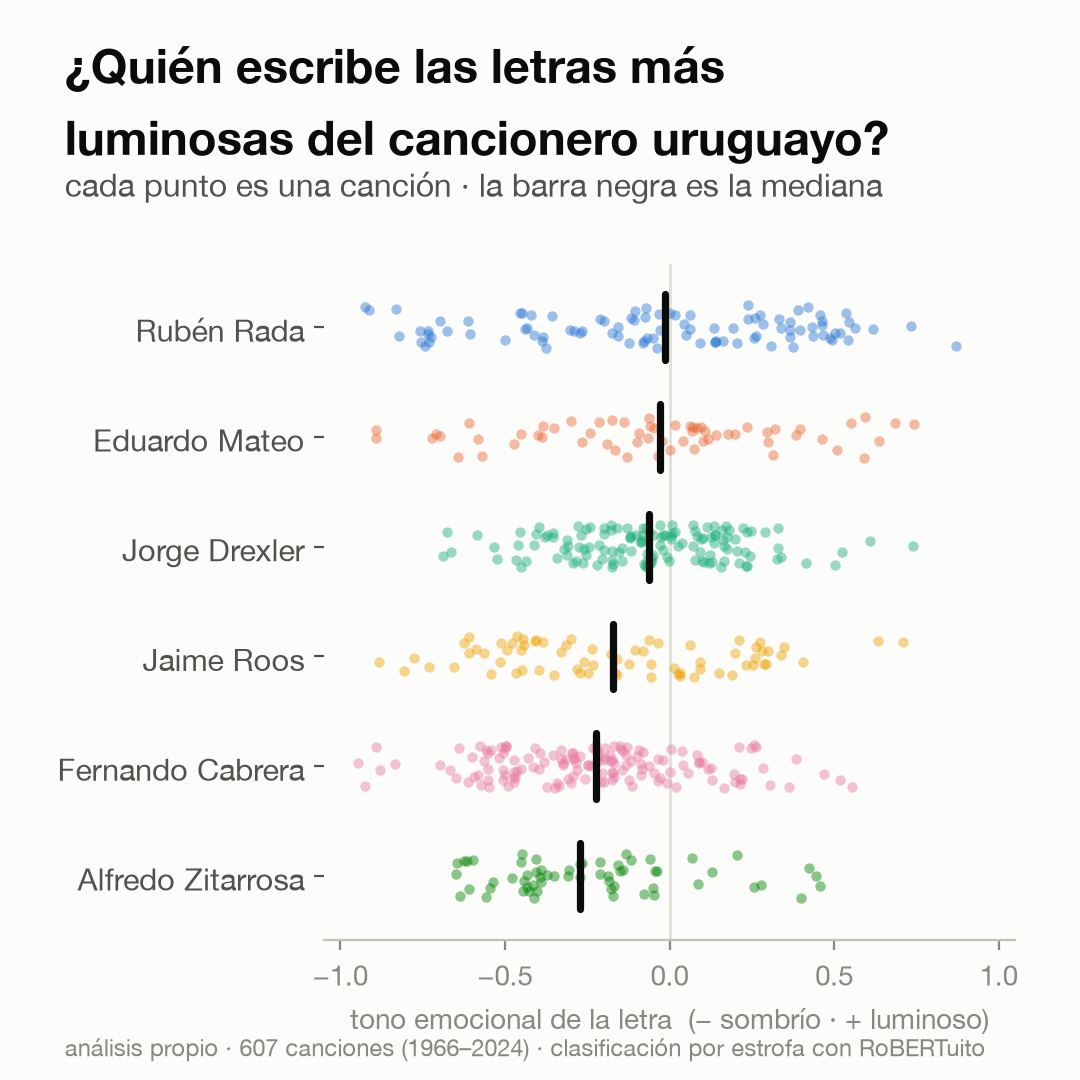
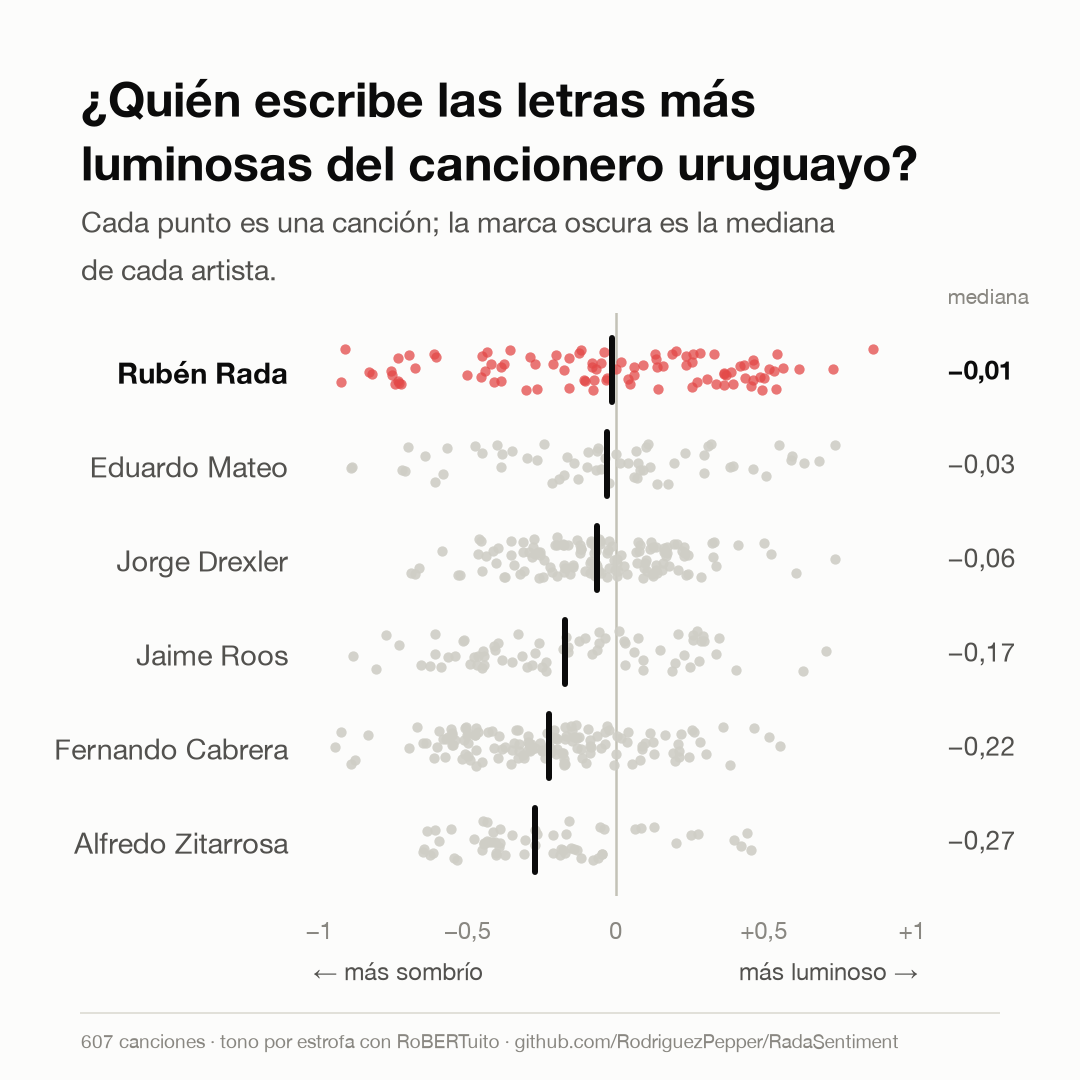
Rediseño de las gráficas y corrección de las estadísticas de lenguajes

diff --git a/src/viz/linkedin_png.py b/src/viz/linkedin_png.py
@@ -1,7 +1,11 @@
-"""Gráficas estáticas para LinkedIn (PNG 1080×1080 aprox, 200 dpi).
+"""Gráficas estáticas para LinkedIn y el README (PNG 1080×1080).
 
-Tres piezas: distribución de tono por artista, arco temporal de Rada
-(énfasis: Rada en color, el resto en gris), y proporción de alegría.
+Tres piezas con el mismo sistema visual: Rada en azul, los otros cinco en
+gris, para que en las tres se lea la misma historia.
+
+  01_tono.png     distribución del tono por canción, artista por artista
+  02_arco.png     tono mediano de Rada por década contra el resto
+  03_alegria.png  proporción de estrofas cuya emoción dominante es alegría
 
 Salida: informe/linkedin/0{1,2,3}_*.png
 Uso:    .venv/bin/python src/viz/linkedin_png.py
@@ -15,6 +19,7 @@ matplotlib.use("Agg")
 import matplotlib.pyplot as plt
 import numpy as np
 import pandas as pd
+from matplotlib.patches import FancyBboxPatch
 
 ROOT = Path(__file__).resolve().parents[2]
 DEST = ROOT / "informe/linkedin"
@@ -24,106 +29,172 @@ NOMBRES = {"ruben_rada": "Rubén Rada", "eduardo_mateo": "Eduardo Mateo",
            "fernando_cabrera": "Fernando Cabrera", "alfredo_zitarrosa": "Alfredo Zitarrosa"}
 ORDEN = ["ruben_rada", "eduardo_mateo", "jorge_drexler",
          "jaime_roos", "fernando_cabrera", "alfredo_zitarrosa"]
-COLOR = {"ruben_rada": "#2a78d6", "eduardo_mateo": "#eb6834",
-         "jorge_drexler": "#1baf7a", "jaime_roos": "#eda100",
-         "fernando_cabrera": "#e87ba4", "alfredo_zitarrosa": "#008300"}
-SURFACE, INK, INK2, MUTED, GRID, BASE = "#fcfcfb", "#0b0b0b", "#52514e", "#898781", "#e1e0d9", "#c3c2b7"
-GRIS = "#c3c2b7"
+
+SURFACE = "#fcfcfb"
+INK, INK2, MUTED = "#0b0b0b", "#52514e", "#898781"
+GRID, BASE = "#e1e0d9", "#c3c2b7"
+RADA = "#e34948"
+OTROS = "#cfcec6"
+
+LADO, DPI = 6.0, 180  # 1080 px
+PIE = "607 canciones · tono por estrofa con RoBERTuito · github.com/RodriguezPepper/RadaSentiment"
 
 plt.rcParams.update({
-    "font.family": ["Helvetica Neue", "Arial", "DejaVu Sans"],
+    "font.family": ["Helvetica Neue", "Helvetica", "Arial", "DejaVu Sans"],
     "figure.facecolor": SURFACE, "axes.facecolor": SURFACE,
-    "axes.edgecolor": BASE, "axes.linewidth": 0.8,
+    "axes.edgecolor": BASE, "axes.linewidth": 1,
     "xtick.color": MUTED, "ytick.color": INK2,
-    "axes.grid": False, "svg.fonttype": "none",
+    "xtick.major.size": 0, "ytick.major.size": 0,
+    "xtick.major.pad": 8, "ytick.major.pad": 10,
+    "axes.grid": False, "axes.axisbelow": True,
+    "axes.formatter.use_locale": False,
 })
 
-PIE = "análisis propio · 607 canciones (1966–2024) · clasificación por estrofa con RoBERTuito"
+
+def coma(x, dec=2, signo=True):
+    """Formato rioplatense: coma decimal y signo menos tipográfico."""
+    s = f"{x:+.{dec}f}" if signo else f"{x:.{dec}f}"
+    return s.replace("-", "−").replace(".", ",")
 
 
-def marco(fig, titulo, subtitulo):
+def lienzo(titulo, subtitulo, ax_rect):
+    fig = plt.figure(figsize=(LADO, LADO), dpi=DPI)
+    x0 = 0.075
+    fig.text(x0, 0.935, titulo, fontsize=19, fontweight="bold", color=INK,
+             va="top", linespacing=1.15)
     lineas = titulo.count("\n") + 1
-    fig.text(0.06, 0.97, titulo, fontsize=17, fontweight="bold", color=INK,
-             va="top", linespacing=1.3)
-    y_sub = 0.97 - 0.062 * lineas
-    fig.text(0.06, y_sub, subtitulo, fontsize=11.5, color=INK2, va="top")
-    fig.subplots_adjust(top=y_sub - 0.09)
-    fig.text(0.06, 0.022, PIE, fontsize=8.5, color=MUTED)
+    fig.text(x0, 0.935 - 0.052 * lineas - 0.018, subtitulo, fontsize=11.5,
+             color=INK2, va="top", linespacing=1.35)
+    fig.add_artist(plt.Line2D([x0, 1 - x0], [0.062, 0.062], color=GRID, lw=0.8))
+    fig.text(x0, 0.036, PIE, fontsize=7.6, color=MUTED, va="center")
+    ax = fig.add_axes(ax_rect)
+    for s in ax.spines.values():
+        s.set_visible(False)
+    return fig, ax
 
 
 def g1_distribucion(d):
-    fig, ax = plt.subplots(figsize=(5.4, 5.4), dpi=200)
-    fig.subplots_adjust(top=0.78, bottom=0.13, left=0.30, right=0.94)
+    fig, ax = lienzo("¿Quién escribe las letras más\nluminosas del cancionero uruguayo?",
+                     "Cada punto es una canción; la marca oscura es la mediana\nde cada artista.",
+                     [0.29, 0.17, 0.56, 0.54])
     rng = np.random.default_rng(7)
-    for i, f in enumerate(reversed(ORDEN)):
+    n = len(ORDEN)
+    for i, f in enumerate(ORDEN):
+        y0 = n - 1 - i
         g = d[d.ficha == f]
-        y = i + rng.uniform(-0.2, 0.2, len(g))
-        ax.scatter(g.valencia, y, s=14, color=COLOR[f], alpha=0.45, lw=0)
+        es_rada = f == "ruben_rada"
+        y = y0 + rng.uniform(-0.22, 0.22, len(g))
+        ax.scatter(g.valencia, y, s=17, color=RADA if es_rada else OTROS,
+                   alpha=0.75 if es_rada else 0.9, lw=0, zorder=2)
         med = g.valencia.median()
-        ax.plot([med, med], [i - 0.3, i + 0.3], color=INK, lw=2.6, solid_capstyle="round")
-    ax.axvline(0, color=GRID, lw=1, zorder=0)
-    ax.set_yticks(range(len(ORDEN)))
-    ax.set_yticklabels([NOMBRES[f] for f in reversed(ORDEN)], fontsize=11)
-    ax.set_xlim(-1.05, 1.05)
-    ax.set_xlabel("tono emocional de la letra  (− sombrío · + luminoso)",
-                  fontsize=10, color=MUTED)
-    for s in ("top", "right", "left"):
-        ax.spines[s].set_visible(False)
-    marco(fig, "¿Quién escribe las letras más\nluminosas del cancionero uruguayo?",
-          "cada punto es una canción · la barra negra es la mediana")
-    fig.savefig(DEST / "01_tono.png")
+        ax.plot([med, med], [y0 - 0.34, y0 + 0.34], color=INK, lw=2.4,
+                solid_capstyle="round", zorder=4)
+        ax.text(1.12, y0, coma(med), ha="left", va="center", fontsize=10.5,
+                color=INK if es_rada else INK2,
+                fontweight="bold" if es_rada else "normal")
+    ax.text(1.12, n - 0.35, "mediana", ha="left", va="bottom", fontsize=8.5, color=MUTED)
+    ax.axvline(0, color=BASE, lw=1, zorder=1)
+    ax.set_yticks(range(n))
+    ax.set_yticklabels([NOMBRES[f] for f in reversed(ORDEN)], fontsize=11.5)
+    ax.get_yticklabels()[-1].set_fontweight("bold")
+    ax.get_yticklabels()[-1].set_color(INK)
+    ax.set_xlim(-1.02, 1.02)
+    ax.set_ylim(-0.6, n - 0.4)
+    ax.set_xticks([-1, -0.5, 0, 0.5, 1])
+    ax.set_xticklabels(["−1", "−0,5", "0", "+0,5", "+1"], fontsize=9.5)
+    ax.text(-1.02, -1.25, "← más sombrío", ha="left", va="top", fontsize=9.5, color=INK2,
+            transform=ax.transData)
+    ax.text(1.02, -1.25, "más luminoso →", ha="right", va="top", fontsize=9.5, color=INK2,
+            transform=ax.transData)
+    fig.savefig(DEST / "01_tono.png", facecolor=SURFACE)
     plt.close(fig)
 
 
 def g2_arco(d):
-    fig, ax = plt.subplots(figsize=(5.4, 5.4), dpi=200)
-    fig.subplots_adjust(top=0.78, bottom=0.13, left=0.13, right=0.90)
-    for f in ORDEN:
+    fig, ax = lienzo("Del Rada sombrío de los 70\nal luminoso de los 2010",
+                     "Tono mediano de sus letras por década. En gris, los otros\ncinco cantautores.",
+                     [0.135, 0.15, 0.76, 0.55])
+    for f in ORDEN[1:]:
         g = d[d.ficha == f].dropna(subset=["decada"])
         if f == "eduardo_mateo":
             g = g[g.decada <= 1990]
         cel = g.groupby("decada").valencia.agg(["median", "size"])
         cel = cel[cel["size"] >= 5]
-        if f == "ruben_rada":
-            ax.plot(cel.index, cel["median"], color=COLOR[f], lw=3, zorder=5,
-                    marker="o", ms=7, mec=SURFACE, mew=1.2)
-            ax.annotate("Rada", (cel.index[-1], cel["median"].iloc[-1]),
-                        xytext=(8, 4), textcoords="offset points",
-                        color=COLOR[f], fontsize=12, fontweight="bold")
-        else:
-            ax.plot(cel.index, cel["median"], color=GRIS, lw=1.4, zorder=2)
-    ax.axhline(0, color=BASE, lw=1, zorder=0)
+        ax.plot(cel.index, cel["median"], color=OTROS, lw=1.6, zorder=2,
+                solid_capstyle="round", solid_joinstyle="round")
+
+    g = d[d.ficha == "ruben_rada"].dropna(subset=["decada"])
+    cel = g.groupby("decada").valencia.agg(["median", "size"])
+    cel = cel[cel["size"] >= 5]["median"]
+    ax.plot(cel.index, cel.values, color=RADA, lw=3, zorder=5,
+            solid_capstyle="round", solid_joinstyle="round")
+    ax.scatter(cel.index, cel.values, s=70, color=RADA, edgecolor=SURFACE,
+               linewidth=2, zorder=6)
+
+    notas = {1970: ("los 70", (-12, 0)), 1990: ("el regreso", (0, 16)),
+             2010: ("los 2010", (0, 16))}
+    for dec, (txt, off) in notas.items():
+        v = cel[dec]
+        ax.annotate(f"{txt}\n{coma(v)}", (dec, v), xytext=off, textcoords="offset points",
+                    ha="right" if off[0] < 0 else "center",
+                    va="center" if off[1] == 0 else "bottom", fontsize=10,
+                    color=INK, linespacing=1.25,
+                    fontweight="bold" if dec != 1990 else "normal")
+    ax.annotate("Rada", (cel.index[-1], cel.values[-1]), xytext=(10, 0),
+                textcoords="offset points", va="center", fontsize=11,
+                fontweight="bold", color=INK)
+
+    for y in (-0.4, -0.2, 0.2, 0.4):
+        ax.axhline(y, color=GRID, lw=0.8, zorder=0)
+    ax.axhline(0, color=BASE, lw=1.2, zorder=1)
+    ax.set_ylim(-0.48, 0.48)
+    ax.set_yticks([-0.4, -0.2, 0, 0.2, 0.4])
+    ax.set_yticklabels(["−0,4", "−0,2", "0", "+0,2", "+0,4"], fontsize=9.5, color=MUTED)
+    ax.set_xlim(1955, 2027)
     ax.set_xticks([1960, 1970, 1980, 1990, 2000, 2010, 2020])
     ax.set_xticklabels(["'60", "'70", "'80", "'90", "'00", "'10", "'20"], fontsize=10)
-    ax.set_ylabel("tono emocional mediano", fontsize=10, color=MUTED)
-    for s in ("top", "right"):
-        ax.spines[s].set_visible(False)
-    marco(fig, "El arco de Rada:\ncada década más luminoso",
-          "de −0.21 en los 70 a +0.32 en los 2010s · en gris, los otros cinco")
-    fig.savefig(DEST / "02_arco.png")
+    fig.savefig(DEST / "02_arco.png", facecolor=SURFACE)
     plt.close(fig)
 
 
+def barra(ax, y, v, alto, color, r_px=5):
+    """Barra horizontal con la punta redondeada y la base recta."""
+    fig = ax.figure
+    fig.canvas.draw()
+    bb = ax.get_window_extent()
+    x0, x1 = ax.get_xlim()
+    y0, y1 = ax.get_ylim()
+    dx = (x1 - x0) / bb.width
+    dy = (y1 - y0) / bb.height
+    r = r_px * dx
+    # se dibuja empezando en -r para que el redondeo izquierdo quede recortado por el eje
+    p = FancyBboxPatch((-r, y - alto / 2), v + r, alto,
+                       boxstyle=f"round,pad=0,rounding_size={r}",
+                       mutation_aspect=dy / dx, lw=0, color=color, zorder=3)
+    ax.add_patch(p)
+
+
 def g3_alegria(d):
-    fig, ax = plt.subplots(figsize=(5.4, 5.4), dpi=200)
-    fig.subplots_adjust(top=0.78, bottom=0.10, left=0.30, right=0.90)
+    fig, ax = lienzo("Casi cinco veces más alegría\nque Zitarrosa",
+                     "Porcentaje de estrofas cuya emoción dominante es la alegría.",
+                     [0.29, 0.15, 0.58, 0.58])
     vals = [(f, d[d.ficha == f].emo_joy.mean() * 100) for f in ORDEN]
     vals.sort(key=lambda x: x[1])
+    ax.set_xlim(0, 20)
+    ax.set_ylim(-0.6, len(vals) - 0.4)
     for i, (f, v) in enumerate(vals):
-        color = COLOR["ruben_rada"] if f == "ruben_rada" else GRIS
-        ax.barh(i, v, height=0.55, color=color)
-        ax.text(v + 0.4, i, f"{v:.1f}%", va="center", fontsize=11,
-                color=INK if f == "ruben_rada" else INK2,
-                fontweight="bold" if f == "ruben_rada" else "normal")
+        es_rada = f == "ruben_rada"
+        barra(ax, i, v, 0.42, RADA if es_rada else OTROS)
+        ax.text(v + 0.45, i, f"{coma(v, 1, signo=False)} %", va="center", fontsize=11.5,
+                color=INK if es_rada else INK2,
+                fontweight="bold" if es_rada else "normal")
+    ax.axvline(0, color=BASE, lw=1.2, zorder=4)
     ax.set_yticks(range(len(vals)))
-    ax.set_yticklabels([NOMBRES[f] for f, _ in vals], fontsize=11)
-    ax.set_xlim(0, 21)
+    ax.set_yticklabels([NOMBRES[f] for f, _ in vals], fontsize=11.5)
+    ax.get_yticklabels()[-1].set_fontweight("bold")
+    ax.get_yticklabels()[-1].set_color(INK)
     ax.set_xticks([])
-    for s in ("top", "right", "bottom"):
-        ax.spines[s].set_visible(False)
-    marco(fig, "Cinco veces más alegría\nque Zitarrosa",
-          "% de estrofas cuya emoción dominante es alegría")
-    fig.savefig(DEST / "03_alegria.png")
+    fig.savefig(DEST / "03_alegria.png", facecolor=SURFACE)
     plt.close(fig)
 
 
